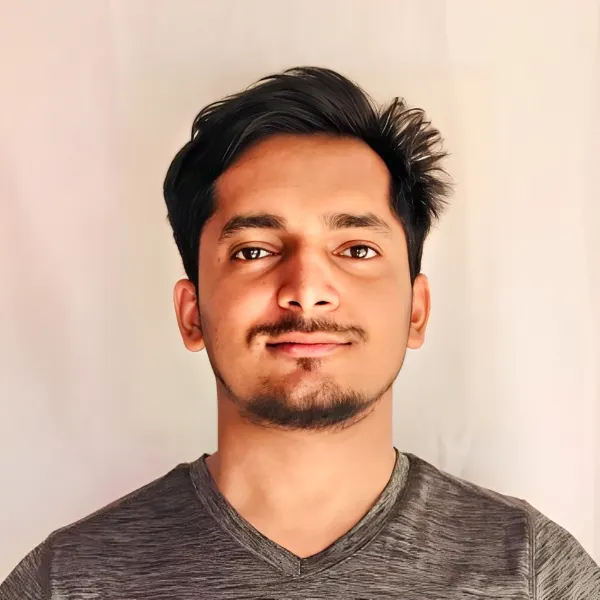
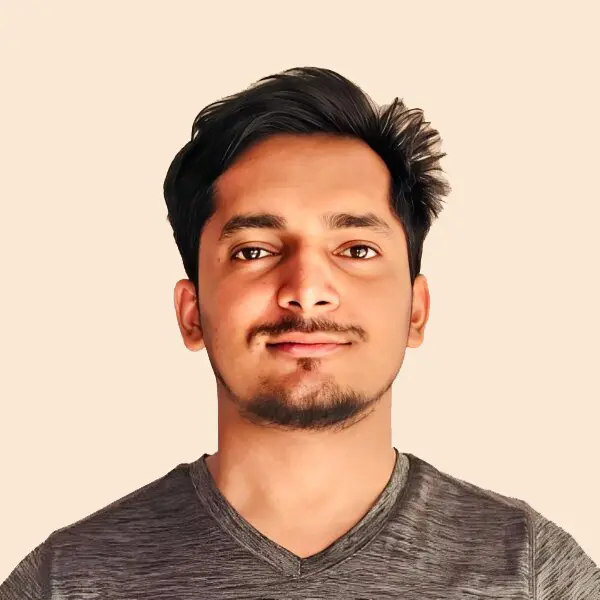
added the image for about

diff --git a/index.html b/index.html
@@ -157,7 +157,7 @@
         "Debugging and Testing",
         "Code Optimization",
 
-      ],
+      ]
       "hasOccupation": {
         "@type": "Occupation",
         "name": "Full Stack Developer",
@@ -478,7 +478,7 @@
             <h2 class="section__title">About Me</h2>
 
             <div class="about__container container grid">
-                <img src="assets/img/shivaaryal.jpg" alt="Shiva Aryal" class="about__img">
+                <img src="assets/img/shivaaryal.webp" alt="Shiva Aryal" class="about__img">
 
                 <div class="about__data">
                     <div class="about__info">
@@ -1622,7 +1622,7 @@
     <!--=============== FOOTER ===============-->
     <footer class="footer">
         <div class="footer__container container">
-            <h1 class="footer__title">shiva</h1>
+            <h1 class="footer__title" style="color:white ;">shiva</h1>
 
             <ul class="footer__list ">
 
